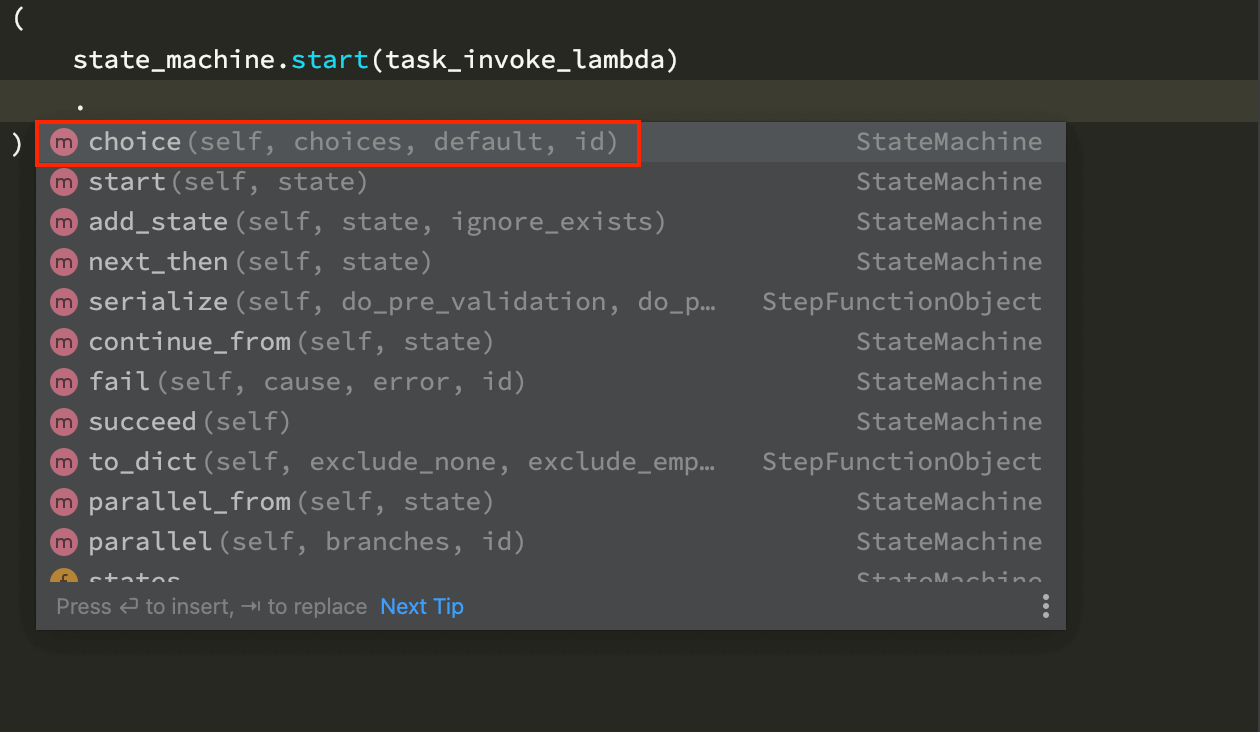
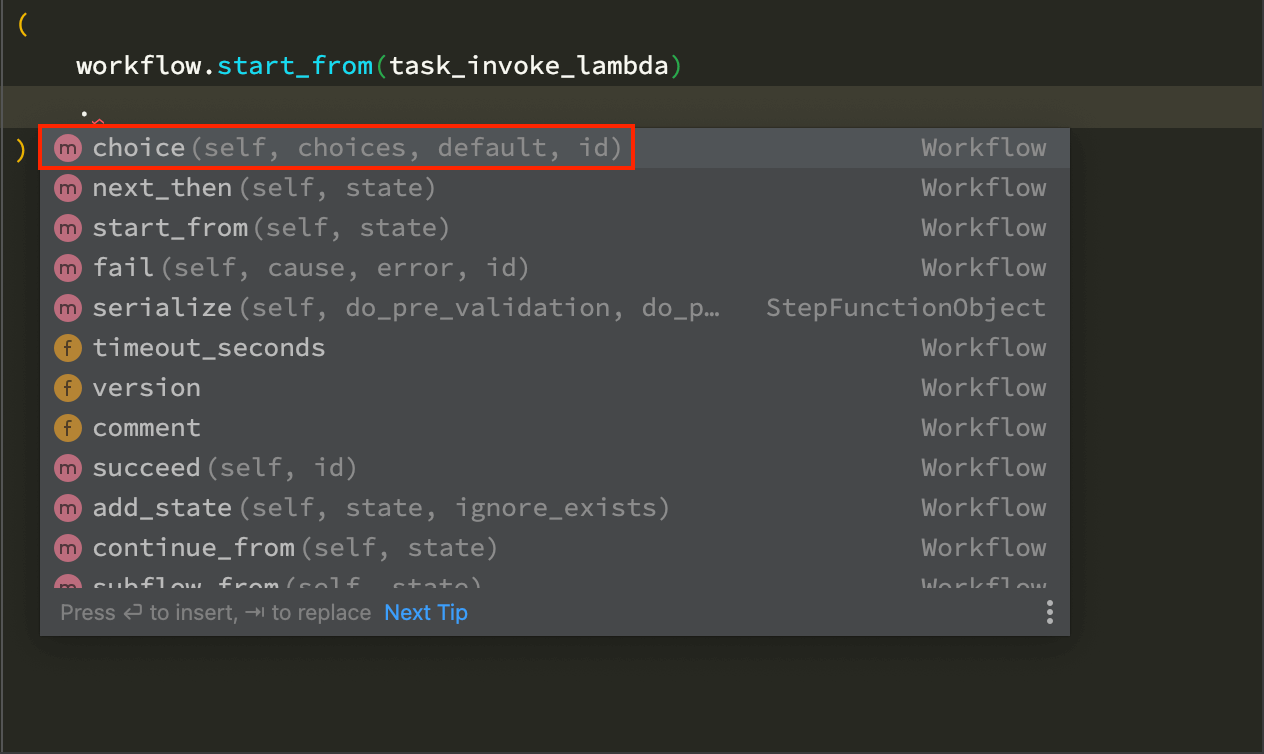
[no ci] update screen shot image

diff --git a/README.rst b/README.rst
@@ -123,16 +123,16 @@ The following code snippet is an equivalent of the below Workflow in the Visual 
 
 I guess "a picture is worth a thousand words":
 
-.. image:: https://user-images.githubusercontent.com/6800411/183265612-d93e09bf-4787-4b0f-beb6-ef52c97687ee.png
+.. image:: https://user-images.githubusercontent.com/6800411/183265960-5c1b3e15-e3ac-4035-a8f3-b39d4810e466.png
     :width: 600
 
-.. image:: https://user-images.githubusercontent.com/6800411/183265613-f8c515b4-1d59-4537-bedb-1e3b606a3ddd.png
+.. image:: https://user-images.githubusercontent.com/6800411/183265961-9312df74-9fbe-42b3-bfc8-747ce0009929.png
     :width: 600
 
-.. image:: https://user-images.githubusercontent.com/6800411/183265614-411f20c3-80dc-442f-afe8-04996bfe7fd3.png
+.. image:: https://user-images.githubusercontent.com/6800411/183265962-c01bc5d4-7d0a-40a2-9a6a-0207a12b41cb.png
     :width: 600
 
-.. image:: https://user-images.githubusercontent.com/6800411/183265615-c63c2797-6768-464c-98ee-b88763c6de40.png
+.. image:: https://user-images.githubusercontent.com/6800411/183265963-8d177efb-93a9-484a-856a-cc2d6f7c4d15.png
     :width: 600
 
 
